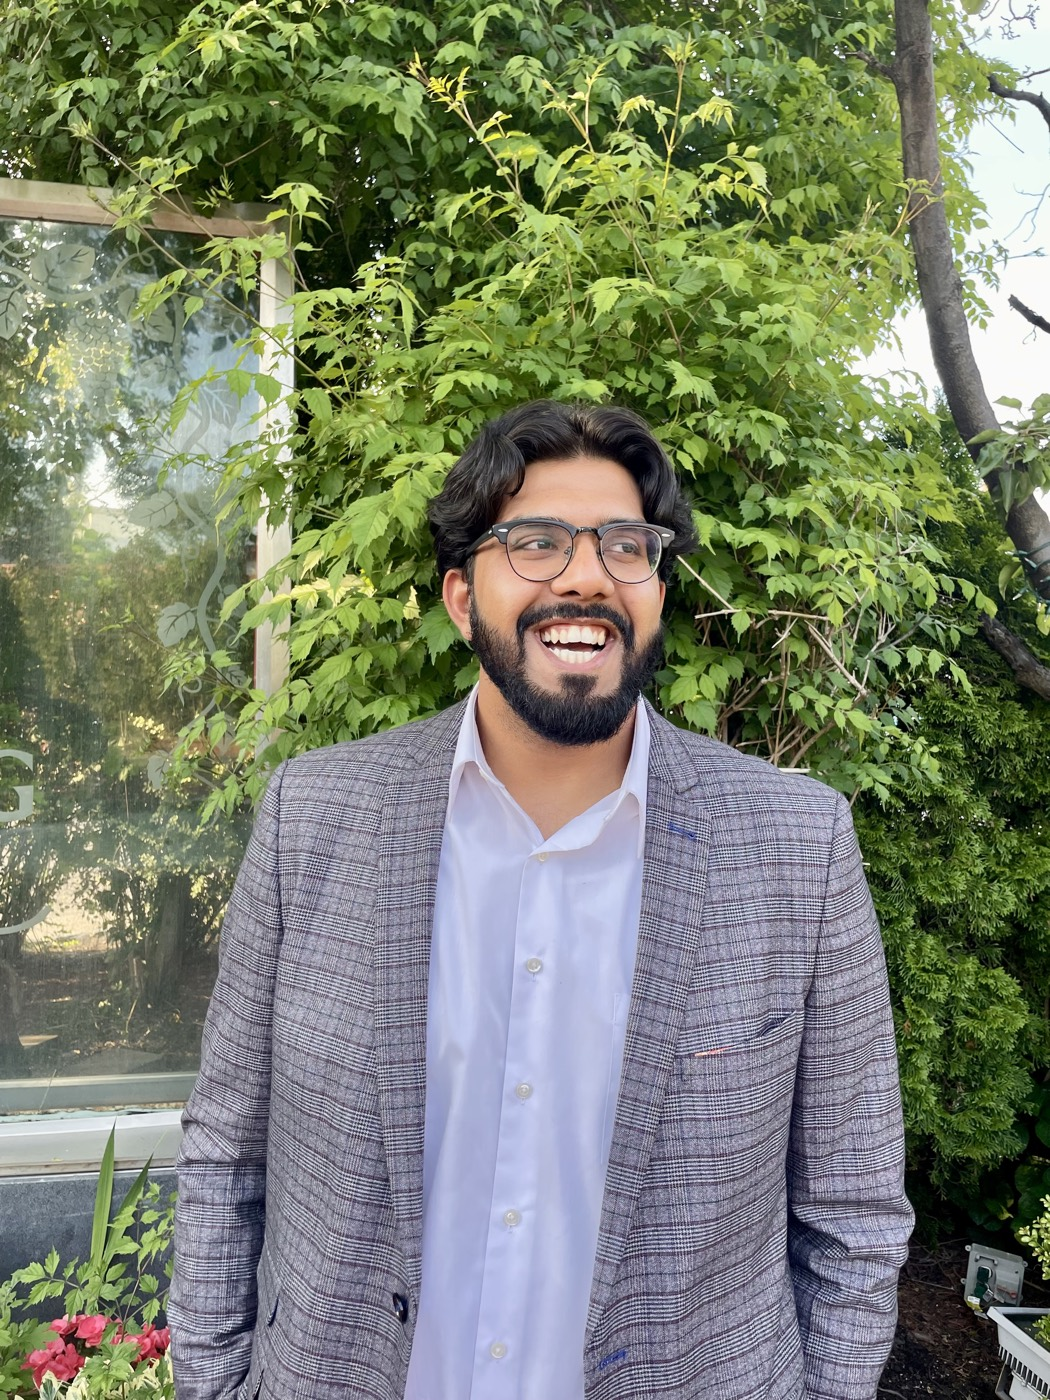
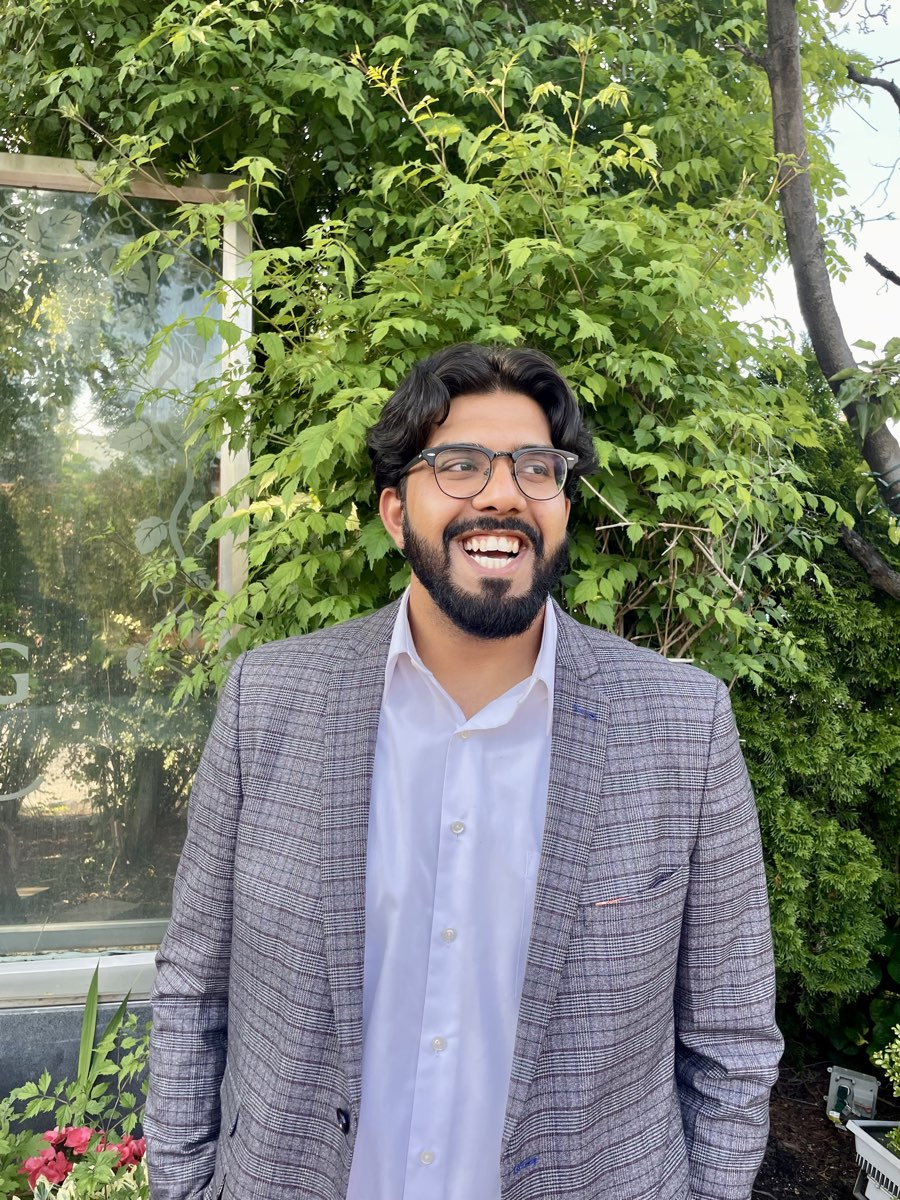
perf(images): enable AVIF/WebP and optimize profile photo
- Add images.formats = [avif, webp] so next/image serves AVIF with a
  WebP fallback, sized to the display dimensions (~20-40KB to visitors).
- Re-encode public/me.jpeg from the high-res original: 1050x1400 -> 900x1200,
  EXIF stripped, ~640KB -> 373KB. Never displays above 400px CSS, so the
  smaller source is visually identical and feeds cleaner input to next/image.

Changed region(s): [[0.8089, 0.7092, 0.84, 0.7708], [0.9956, 0.9867, 1.0, 1.0], [0.7156, 0.8017, 0.7467, 0.8325]]

diff --git a/next.config.ts b/next.config.ts
@@ -42,6 +42,12 @@ const securityHeaders = [
 ];
 
 const nextConfig: NextConfig = {
+  images: {
+    // Serve AVIF (smallest) with a WebP fallback. next/image picks the
+    // best format the requesting browser supports and resizes to the
+    // displayed dimensions, so the profile photo ships as ~20-40KB.
+    formats: ["image/avif", "image/webp"],
+  },
   async headers() {
     return [
       {